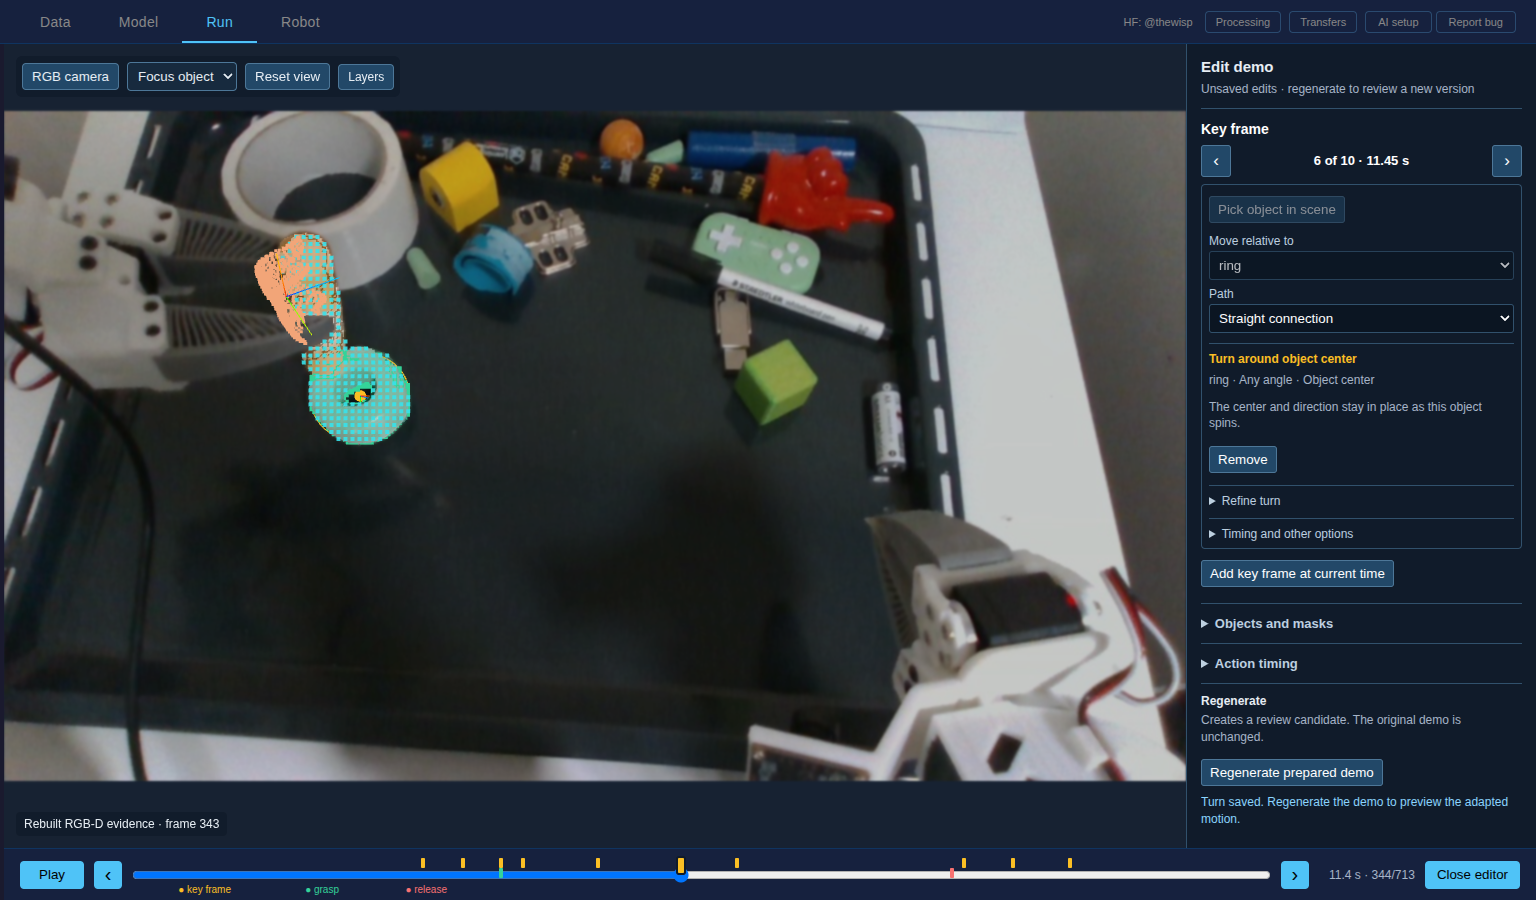
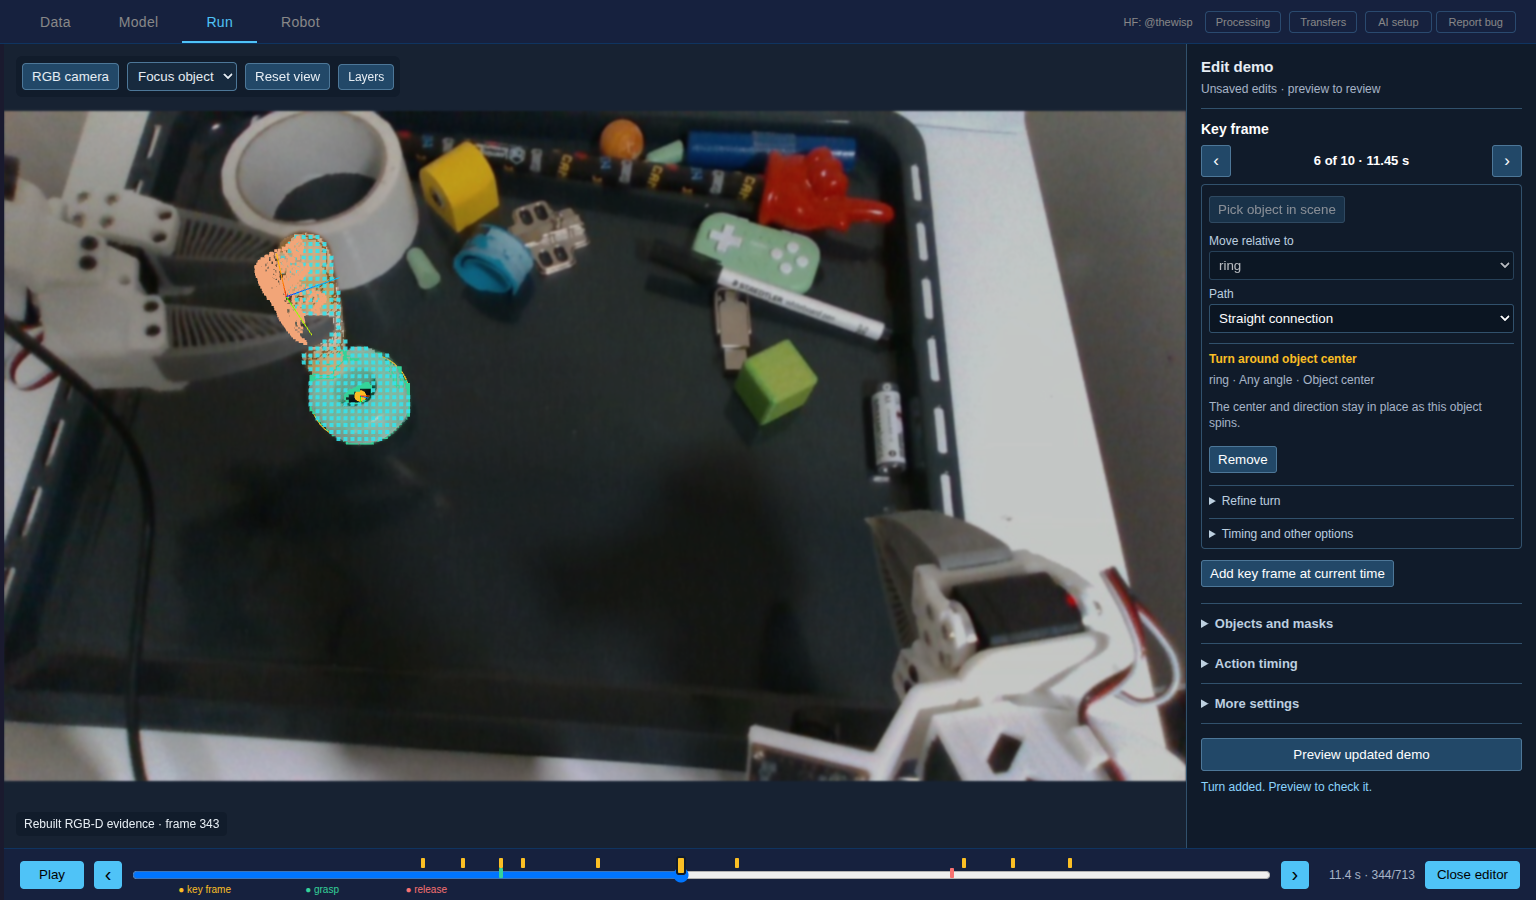
Keep FLASH demo editing focused on the current action
The prepared-demo editor still showed seven separate technical sections below each key frame, and its tall sticky footer hid the last controls. Put the current key frame first, leave object and action timing edits one click away, and collect the less common tracking and setup controls under one non-nested More settings section. Replace the duplicated Regenerate heading and button with a single Preview updated demo action that opens a new candidate while preserving the original.

This changes only editor presentation and labels, not the saved annotation format or preparation behavior. Browser tests cover both raw and prepared editing, including access to the technical controls and preview request; 61 GUI/static-asset tests and pre-commit checks pass. The updated screenshot is in the scene-editor evidence note.

Changed region(s): [[0.7812, 0.7778, 1.0, 0.9333], [0.8438, 0.0933, 0.9688, 0.1244]]

diff --git a/src/lerobot/gui/static/flash_demo_editor.js b/src/lerobot/gui/static/flash_demo_editor.js
@@ -85,7 +85,7 @@ function _flashEditorUpdateStatus() {
     const status = document.getElementById('flash-demo-editor-change-status');
     if (status) status.textContent = flashDemoEditor.raw
         ? changed ? 'Unsaved setup · prepare to review a new version' : 'Raw demo · no preparation saved'
-        : changed ? 'Unsaved edits · regenerate to review a new version' : 'Viewing saved preparation';
+        : changed ? 'Unsaved edits · preview to review' : 'Viewing saved preparation';
 }
 
 function _flashEditorUpdateFrame() {
@@ -193,6 +193,16 @@ function _flashEditorRender() {
         expanded[requestedSection] = true;
         state.section = null;
     }
+    const secondarySections = new Set(state.raw
+        ? ['pose', 'trackers', 'advanced']
+        : ['setup', 'pose', 'trackers', 'advanced']);
+    const more = document.createElement('details');
+    more.className = 'flash-editor-group flash-editor-more';
+    more.open = !!expanded.more || secondarySections.has(requestedSection);
+    const moreTitle = document.createElement('summary');
+    moreTitle.textContent = 'More settings';
+    moreTitle.onclick = () => { expanded.more = !more.open; };
+    more.append(moreTitle);
     for (const [key, label, primary] of [
         ['keyframes', 'Key frames', true],
         ['objects', 'Objects and masks', state.raw],
@@ -210,6 +220,10 @@ function _flashEditorRender() {
             editor.append(pane);
             continue;
         }
+        if (secondarySections.has(key)) {
+            more.append(pane);
+            continue;
+        }
         const details = document.createElement('details');
         details.className = 'flash-editor-group';
         details.dataset.section = key;
@@ -220,6 +234,7 @@ function _flashEditorRender() {
         details.append(title, pane);
         editor.append(details);
     }
+    editor.append(more);
 
     const setup = _flashEditorSection(panes.setup, 'Recording and calibration', state.raw
         ? 'The raw frames contain no FLASH object names or camera-to-arm calibration. Supply the calibration used when this demo was recorded.'
@@ -745,10 +760,10 @@ function _flashEditorRender() {
     });
     panes.advanced.append(advanced);
 
-    const output = _flashEditorSection(editor, state.raw ? 'Prepare' : 'Regenerate',
-        'Creates a review candidate. The original demo is unchanged.');
+    const output = document.createElement('section');
     output.classList.add('flash-editor-footer');
-    const generate = _flashEditorButton(output, state.raw ? 'Prepare spatial demo' : 'Regenerate prepared demo',
+    editor.append(output);
+    const generate = _flashEditorButton(output, state.raw ? 'Prepare demo' : 'Preview updated demo',
         () => void _flashEditorRegenerate());
     generate.disabled = state.running;
     const message = document.createElement('p');
@@ -801,7 +816,7 @@ function _flashEditorUseInvariantTurn(state, point, index) {
     };
     if (prior) rules.splice(rules.indexOf(prior), 1, rule);
     else rules.push(rule);
-    state.message = 'Turn saved. Regenerate the demo to preview the adapted motion.';
+    state.message = 'Turn added. Preview to check it.';
 }
 
 function flashDemoEditorPickTurn(picked) {

diff --git a/src/lerobot/gui/static/index.html b/src/lerobot/gui/static/index.html
@@ -5,7 +5,7 @@
     <meta name="viewport" content="width=device-width, initial-scale=1.0">
     <title>LeRobot GUI</title>
     <script>document.title = `LeRobot GUI [${window.location.host}]`;</script>
-    <link rel="stylesheet" href="/static/style.css?v=154">
+    <link rel="stylesheet" href="/static/style.css?v=155">
     <script type="importmap">{"imports":{"three":"/static/vendor/three.module.js"}}</script>
 </head>
 <body>
@@ -806,7 +806,7 @@ nebius iam auth-public-key generate \
     <script src="/static/robot.js?v=27"></script>
     <script src="/static/flash_live_tracking.js?v=9"></script>
     <script src="/static/run.js?v=129"></script>
-    <script src="/static/flash_demo_editor.js?v=20"></script>
+    <script src="/static/flash_demo_editor.js?v=22"></script>
     <script src="/static/overlay_gate.js?v=1"></script>
     <script src="/static/mask_seed.js?v=4"></script>
     <script src="/static/overlay_pull_gate.js?v=3"></script>

diff --git a/src/lerobot/gui/static/style.css b/src/lerobot/gui/static/style.css
@@ -797,6 +797,7 @@ body { font-family: -apple-system, BlinkMacSystemFont, 'Segoe UI', Roboto, sans-
 .flash-editor-turn-refine { border-top: 1px solid #31516c; margin-top: 8px; padding-top: 8px; }
 .flash-editor-turn-refine > summary { color: #bdd0e0; cursor: pointer; }
 .flash-editor-footer { position: sticky; bottom: -14px; padding: 10px 0 !important; background: #101b2a; border-top: 1px solid #31516c; }
+.flash-editor-footer > button { width: 100%; margin-right: 0; padding: 8px; }
 @media (max-width: 1200px) {
     #tab-run.flash-reviewing #run-sidebar { width: 220px; min-width: 180px; }
     #tab-run.flash-reviewing #rerun-viewer { flex-direction: column; }

diff --git a/tests/gui/test_flash_inspect.py b/tests/gui/test_flash_inspect.py
@@ -686,7 +686,7 @@ def test_run_flash_lists_demos_and_shows_extracted_pose_overlay(gui_page):
     page.get_by_role("button", name="Finish polygon").click()
     assert "Manual object mask: 3 vertices" in page.locator("#flash-demo-editor-polygon-status").inner_text()
     assert len(page.evaluate("flashDemoEditor.annotation.reference_polygons_by_role.object")) == 3
-    page.locator("#flash-demo-editor .flash-editor-group[data-section='trackers'] > summary").click()
+    page.get_by_text("More settings", exact=True).click()
     assert page.get_by_label("Processing scope", exact=True).input_value() == ""
     assert page.get_by_label("Grow points from later views").is_checked()
     page.get_by_label("Maximum points per object").fill("256")
@@ -696,7 +696,6 @@ def test_run_flash_lists_demos_and_shows_extracted_pose_overlay(gui_page):
     page.get_by_role("button", name="Process demo and preview", exact=True).click()
     page.wait_for_function("() => flashReplay.tracker_candidate?.candidate_id === 'test-tracker'")
     page.wait_for_function("() => !document.getElementById('flash-track-tools').hidden")
-    page.locator("#flash-demo-editor .flash-editor-group[data-section='pose'] > summary").click()
     assert "Raw 3D point paths" in page.locator("#flash-tracker-content").inner_text()
     arc_count = page.evaluate("""() => {
         let n = 0; const original = CanvasRenderingContext2D.prototype.arc;
@@ -1044,6 +1043,10 @@ def test_raw_demo_editor_collects_object_names_and_action_from_visible_controls(
             "Advanced": "advanced",
             "Key frames": "keyframes",
         }[name]
+        if current_section == "advanced":
+            more = page.locator("#flash-demo-editor .flash-editor-more")
+            if not more.evaluate("element => element.open"):
+                more.locator("summary").click()
         group = page.locator(f"#flash-demo-editor .flash-editor-group[data-section='{current_section}']")
         if group.count() and not group.evaluate("element => element.open"):
             group.locator("summary").click()
@@ -1091,7 +1094,7 @@ def test_raw_demo_editor_collects_object_names_and_action_from_visible_controls(
     seek(1)
     page.get_by_role("button", name="Add key frame at current time").click()
     set_field("Move relative to", "receiver")
-    page.get_by_role("button", name="Prepare spatial demo").click()
+    page.get_by_role("button", name="Prepare demo").click()
     page.wait_for_function(
         "() => document.querySelector('#flash-demo-editor-status').textContent.includes('captured test request')"
     )
@@ -1265,6 +1268,15 @@ def test_3d_scene_projection_and_surface_pick_edit_the_prepared_keyframe(gui_pag
     page.get_by_role("button", name="Edit key frames").click()
     page.wait_for_function("() => !!flashDemoEditor")
     assert not page.locator("#run-sidebar").is_visible()
+    assert page.locator("#flash-demo-editor .flash-editor-group > summary").all_inner_texts() == [
+        "Objects and masks",
+        "Action timing",
+        "More settings",
+    ]
+    page.get_by_text("More settings", exact=True).click()
+    assert page.get_by_text("Pose evidence", exact=True).is_visible()
+    assert page.locator(".flash-editor-more .flash-editor-group").count() == 0
+    page.get_by_text("More settings", exact=True).click()
     page.get_by_role("button", name="Pick object in scene").click()
     box = page.locator(".flash-scene-canvas").bounding_box()
     scale = min(box["width"] / width, box["height"] / height)
@@ -1296,7 +1308,7 @@ def test_3d_scene_projection_and_surface_pick_edit_the_prepared_keyframe(gui_pag
     )
     assert page.evaluate("flashDemoEditor.keypointsDocument.keypoints[0].frame") == "fixture"
     assert "Unsaved edits" in page.locator("#flash-demo-editor-change-status").inner_text()
-    page.get_by_role("button", name="Regenerate prepared demo").click()
+    page.get_by_role("button", name="Preview updated demo").click()
     page.wait_for_function(
         "() => document.querySelector('#flash-demo-editor-status').textContent.includes('captured')"
     )
@@ -1312,7 +1324,7 @@ def test_3d_scene_projection_and_surface_pick_edit_the_prepared_keyframe(gui_pag
     assert rule["reference_role"] == "fixture"
     assert rule["pivot_reference_m"] == pytest.approx(picked["camera_xyz_m"])
     assert page.get_by_label("Move relative to", exact=True).is_disabled()
-    page.get_by_role("button", name="Regenerate prepared demo").click()
+    page.get_by_role("button", name="Preview updated demo").click()
     page.wait_for_function(
         "() => document.querySelector('#flash-demo-editor-status').textContent.includes('captured')"
     )

diff --git a/docs/proofs/flash-scene-editor/EVIDENCE.md b/docs/proofs/flash-scene-editor/EVIDENCE.md
@@ -27,8 +27,10 @@ interval.
 ![Simplified turn editor on insertion demo frame 343](turn-rule-preview.png)
 
 In the insertion demo, key frame 6 can now be given a turn around the ring's
-saved center with one button. The angle range is under **Refine turn**. The
-browser saved the rule without page errors. The cyan measured patch is on the
+saved center with one button. The angle range is under **Refine turn**. Object
+and action edits stay one click away; technical controls share **More settings**.
+**Preview updated demo** builds a candidate. The browser saved the rule without
+page errors. The cyan measured patch is on the
 green ring beneath the dowel; the blue object farther right is unrelated.
 
 The center and direction are unchanged by the ring's unobserved spin, although
